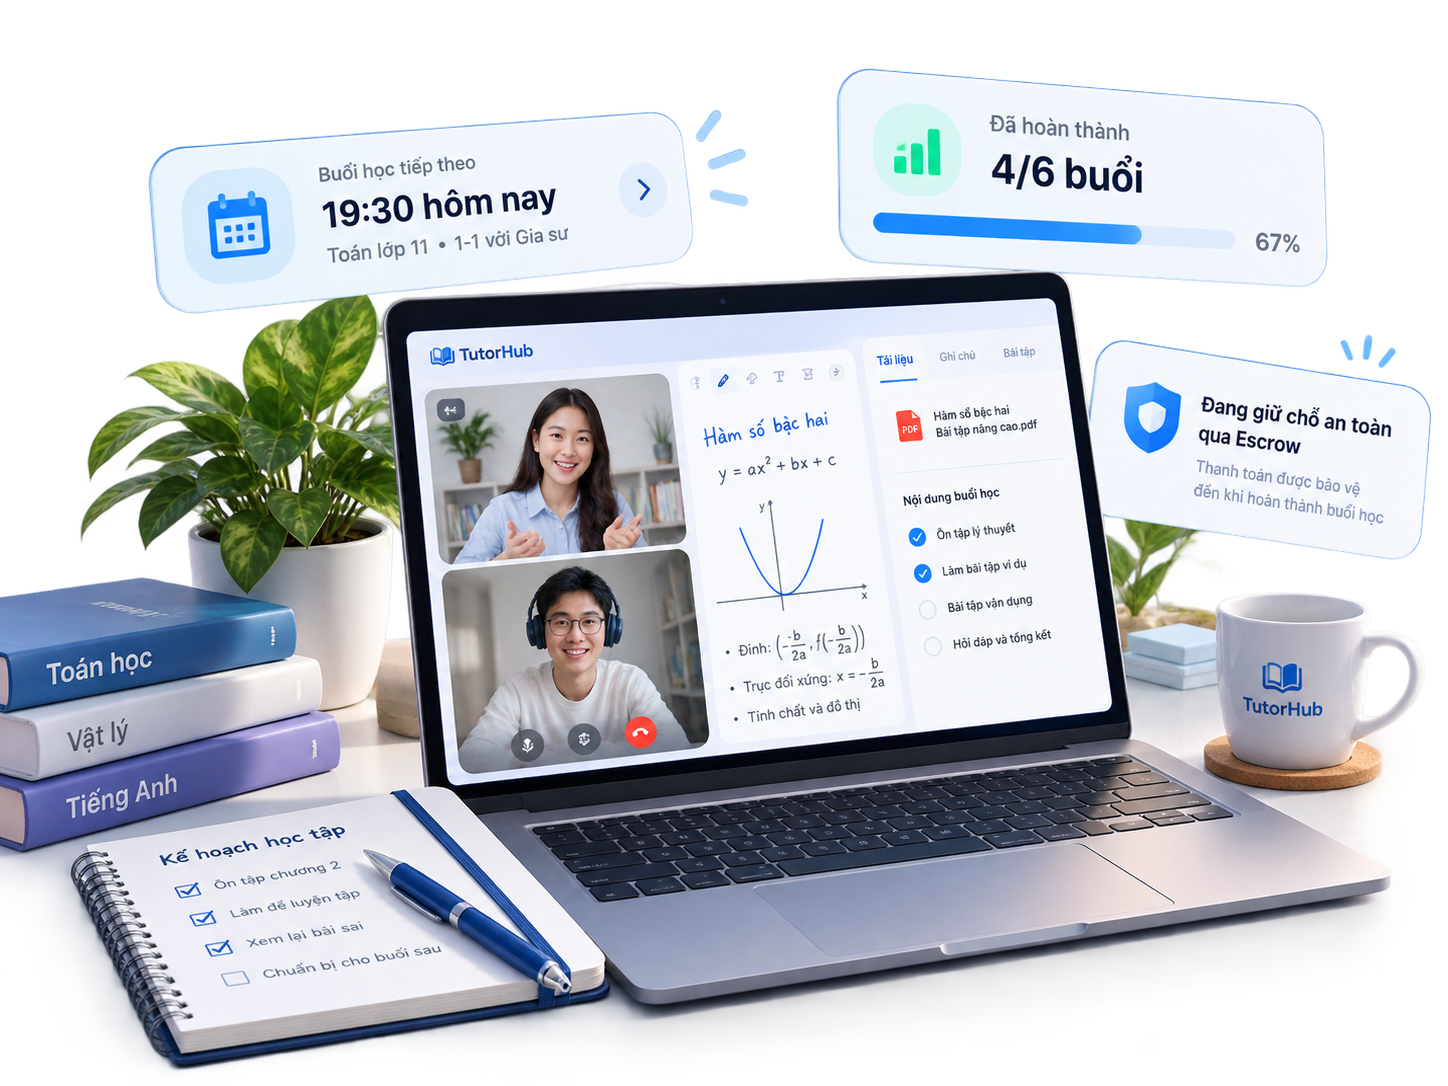
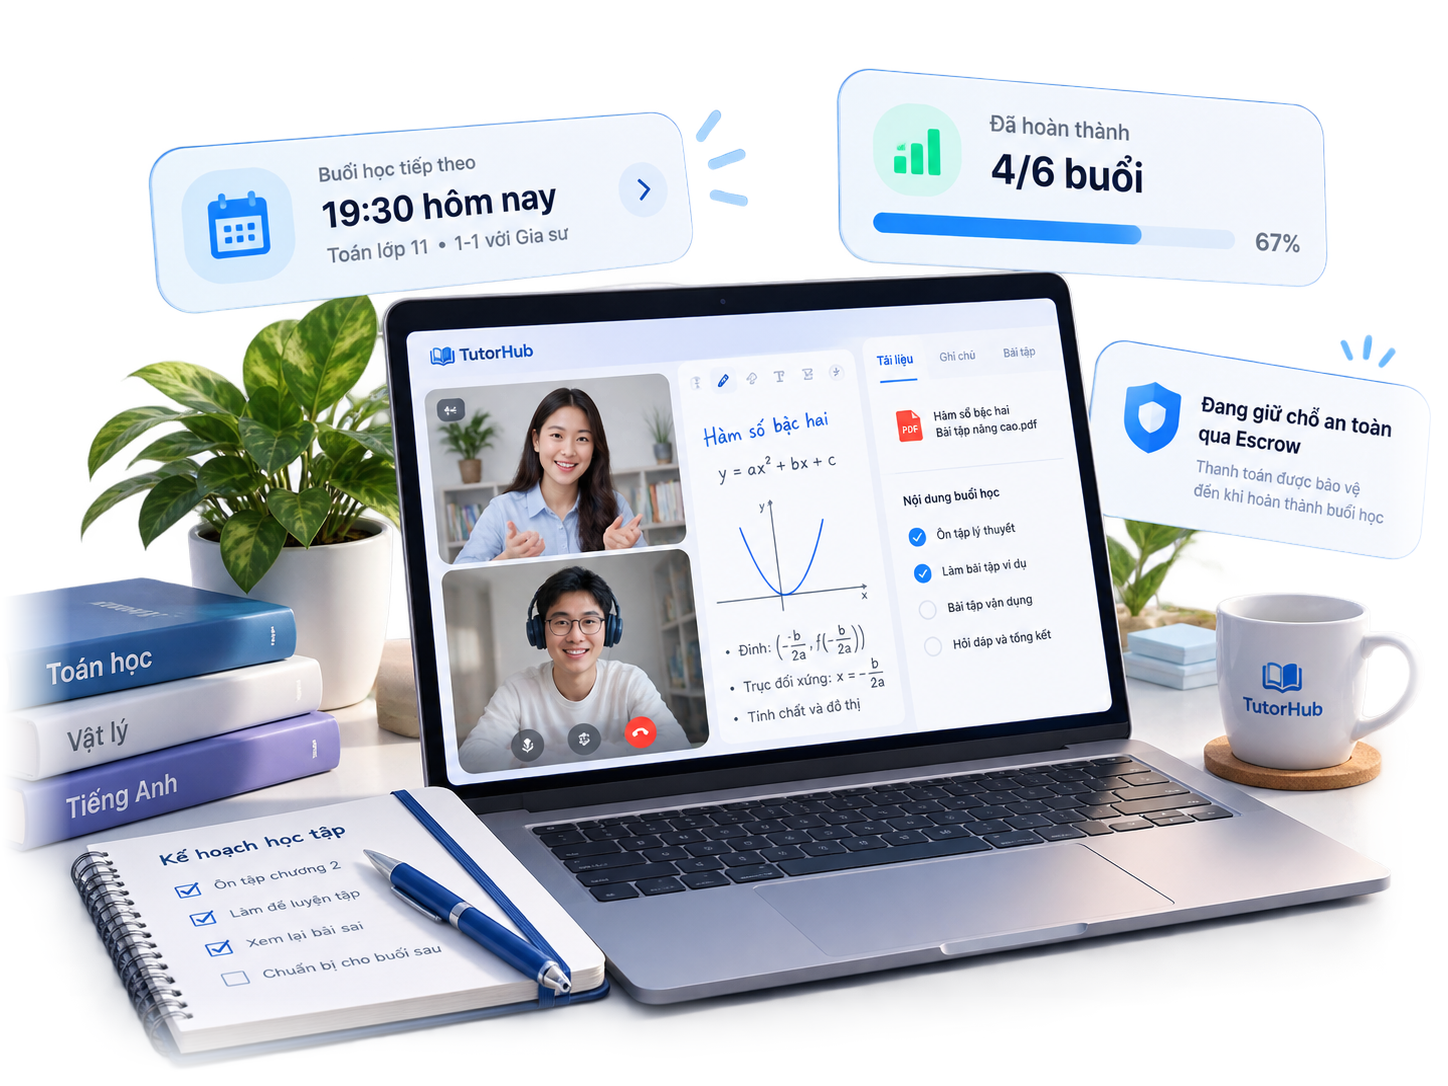
feat(auth): remove tutor stats badge and blend login illustration seamlessly into canvas

diff --git a/src/frontend/src/pages/auth/Login.jsx b/src/frontend/src/pages/auth/Login.jsx
@@ -1,20 +1,16 @@
-import React, { useState, useEffect } from 'react';
+import React, { useState } from 'react';
 import { useNavigate, useLocation, Link } from 'react-router-dom';
 import {
-  GraduationCap,
   Mail,
   Lock,
   Eye,
   EyeOff,
   ArrowRight,
-  ChevronRight,
 } from 'lucide-react';
 import { useAuthStore } from '@/store/authStore';
-import Avatar from '@/components/ui/Avatar';
 import { useToast } from '@/components/ui/Toast';
 import { api } from '@/services/api';
 import { externalAuthService } from '@/services/externalAuth.service';
-import tutorService from '@/services/tutor.service';
 import AuthHeader from '@/components/layout/AuthHeader';
 
 function GoogleSvg() {
@@ -53,39 +49,6 @@ export default function Login() {
   const [rememberMe, setRememberMe] = useState(true);
   const [loading, setLoading] = useState(false);
   const [socialLoading, setSocialLoading] = useState(false);
-
-  // Truy vấn dữ liệu gia sư thật từ Database (PostgreSQL)
-  const [tutorStats, setTutorStats] = useState({
-    totalCount: 0,
-    topTutors: [],
-    loading: true,
-  });
-
-  useEffect(() => {
-    let isMounted = true;
-    api
-      .get('/tutors?pageSize=3')
-      .then((res) => {
-        if (!isMounted) return;
-        const items = res?.items || res?.data?.items || [];
-        const count = res?.totalCount ?? res?.data?.totalCount ?? 0;
-        setTutorStats({
-          totalCount: count,
-          topTutors: items,
-          loading: false,
-        });
-      })
-      .catch((err) => {
-        console.warn('Lỗi kết nối API gia sư cho trang đăng nhập:', err);
-        if (isMounted) {
-          setTutorStats((prev) => ({ ...prev, loading: false }));
-        }
-      });
-
-    return () => {
-      isMounted = false;
-    };
-  }, []);
 
   const handleSubmit = async (e) => {
     e.preventDefault();
@@ -178,72 +141,14 @@ export default function Login() {
               TutorHub là nền tảng kết nối học viên với những gia sư chất lượng, giúp việc học hiệu quả hơn, dễ dàng hơn và an toàn hơn.
             </p>
 
-            {/* 4. Illustration with DYNAMIC Live Floating Badges (100% borderless) */}
-            <div className="relative mt-5 max-w-[540px] w-full select-none">
-              {/* 3D Realistic Tutoring Workspace Illustration */}
+            {/* 4. 3D Seamless Illustration without borders */}
+            <div className="relative mt-5 max-w-[560px] w-full select-none">
               <img
                 src="/images/auth-classroom-workspace.png"
                 alt="Không gian học trực tuyến 1 kèm 1 TutorHub"
-                className="w-full h-auto object-contain select-none pointer-events-none"
+                className="w-full h-auto object-contain select-none pointer-events-none mix-blend-multiply"
                 loading="eager"
               />
-
-              {/* Dynamic PostgreSQL Tutor Stats Badge */}
-              <Link
-                to="/"
-                className="absolute -bottom-3 sm:-bottom-4 left-2 sm:left-4 bg-white/95 backdrop-blur-md p-2 sm:p-2.5 sm:px-3.5 rounded-xl sm:rounded-2xl shadow-brand-md border border-white/80 flex items-center gap-2 sm:gap-3 z-20 group hover:shadow-brand-lg transition-all animate-float cursor-pointer"
-                style={{ animationDuration: '4.5s', animationDelay: '0.8s' }}
-                title="Khám phá danh sách gia sư chất lượng"
-              >
-                {tutorStats.loading ? (
-                  <>
-                    <div className="flex -space-x-2 overflow-hidden py-0.5 pl-0.5">
-                      <div className="w-7 h-7 sm:w-8 sm:h-8 rounded-full bg-neutral-200 animate-pulse ring-2 ring-white shrink-0" />
-                      <div className="w-7 h-7 sm:w-8 sm:h-8 rounded-full bg-neutral-200 animate-pulse ring-2 ring-white shrink-0" />
-                      <div className="w-7 h-7 sm:w-8 sm:h-8 rounded-full bg-neutral-200 animate-pulse ring-2 ring-white shrink-0" />
-                    </div>
-                    <div className="leading-tight text-left pr-0.5 space-y-1">
-                      <div className="h-3 w-24 bg-neutral-200 rounded animate-pulse" />
-                      <div className="h-2.5 w-32 bg-neutral-100 rounded animate-pulse" />
-                    </div>
-                  </>
-                ) : (
-                  <>
-                    {/* Real Database Tutor Avatars */}
-                    <div className="flex -space-x-2 overflow-hidden py-0.5 pl-0.5">
-                      {tutorStats.topTutors.length > 0 ? (
-                        tutorStats.topTutors.slice(0, 3).map((tutor, idx) => (
-                          <Avatar
-                            key={tutor.id || idx}
-                            src={tutor.avatarUrl}
-                            name={tutor.fullName}
-                            size="sm"
-                            title={tutor.fullName}
-                            className="inline-block h-7 w-7 sm:h-8 sm:w-8 ring-2 ring-white shrink-0"
-                          />
-                        ))
-                      ) : (
-                        <div className="w-7 h-7 sm:w-8 sm:h-8 rounded-full bg-brand-primary-100 text-brand-primary-600 flex items-center justify-center shrink-0">
-                          <GraduationCap className="w-4 h-4" />
-                        </div>
-                      )}
-                    </div>
-
-                    <div className="leading-tight text-left pr-0.5">
-                      <p className="text-[12px] sm:text-[13px] font-bold text-fg group-hover:text-brand-primary-600 transition-colors">
-                        {tutorStats.totalCount > 0
-                          ? `${tutorStats.totalCount}+ gia sư chất lượng`
-                          : 'Đội ngũ gia sư chất lượng'}
-                      </p>
-                      <p className="text-[10px] sm:text-[10.5px] text-neutral-500 mt-0.5">Sẵn sàng đồng hành cùng bạn</p>
-                    </div>
-                  </>
-                )}
-
-                <span className="w-5 h-5 rounded-full bg-neutral-100 text-fg-muted flex items-center justify-center group-hover:bg-brand-primary-50 group-hover:text-brand-primary-600 transition-colors shrink-0">
-                  <ChevronRight className="w-3.5 h-3.5" />
-                </span>
-              </Link>
             </div>
           </section>
 
